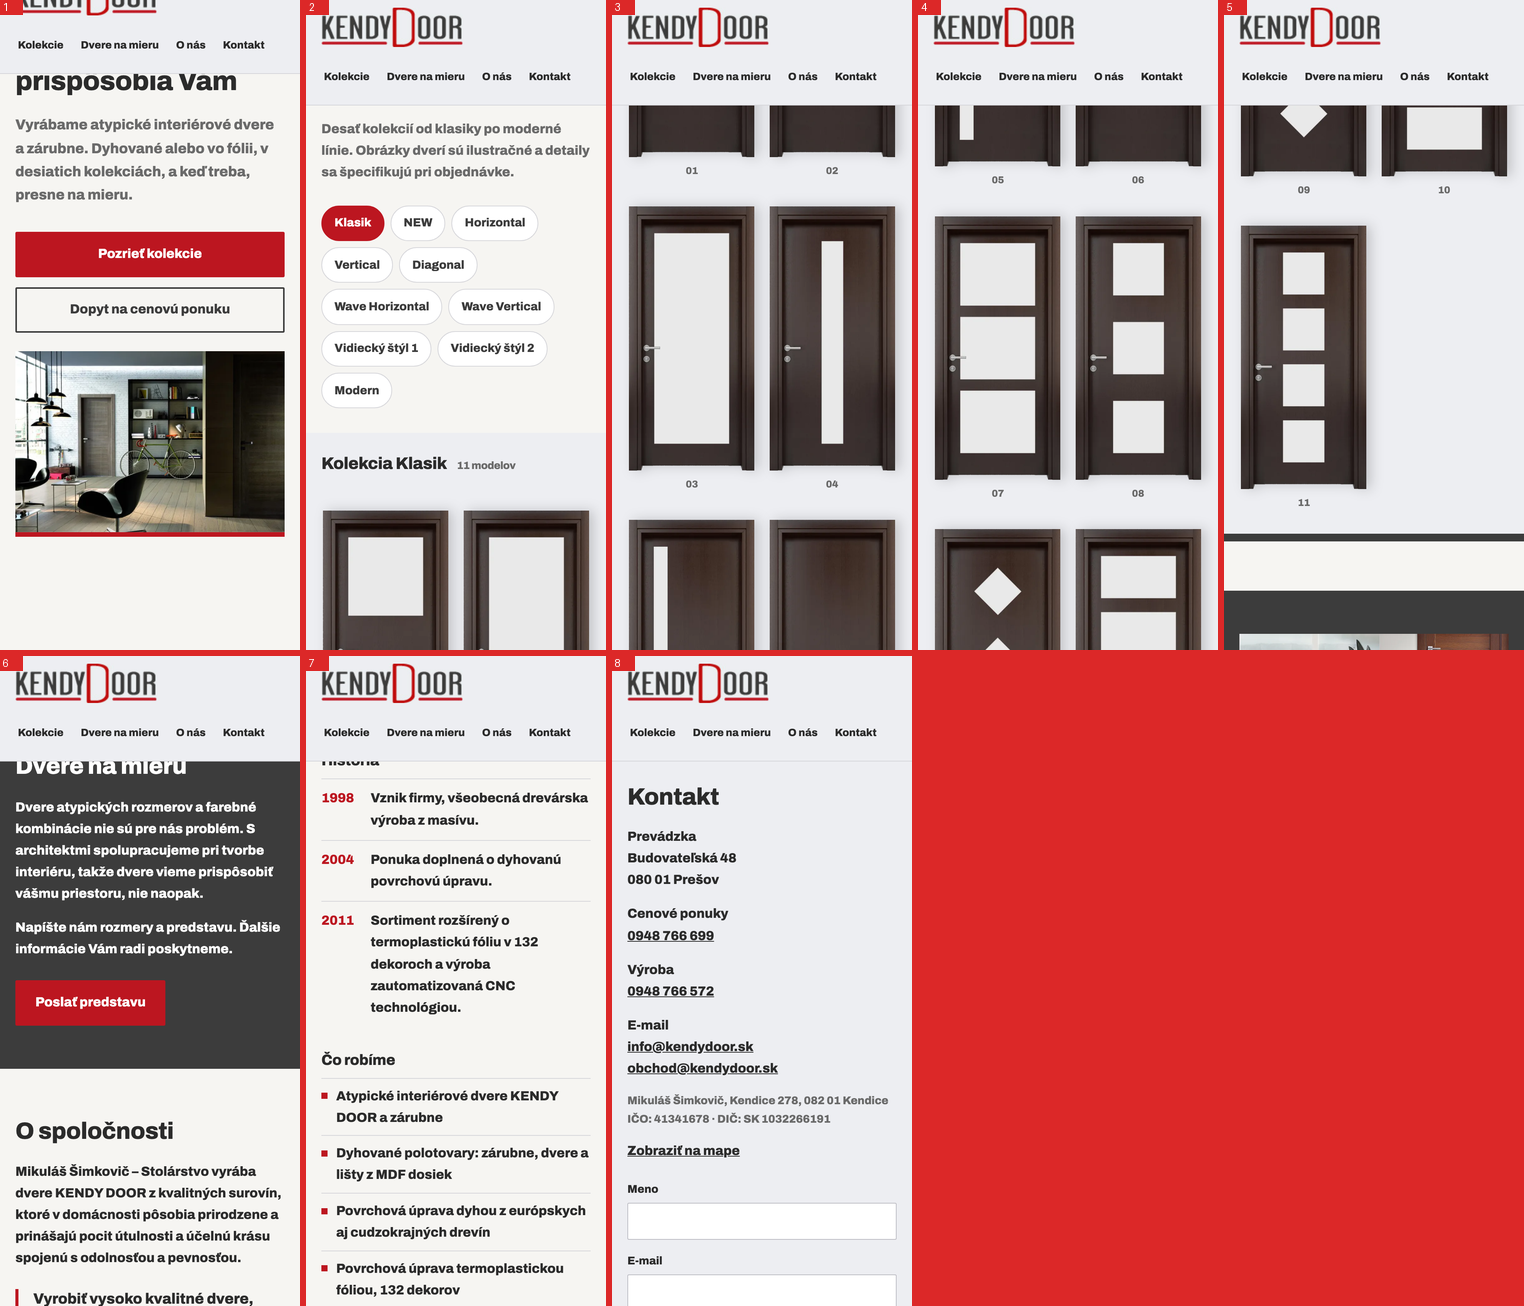
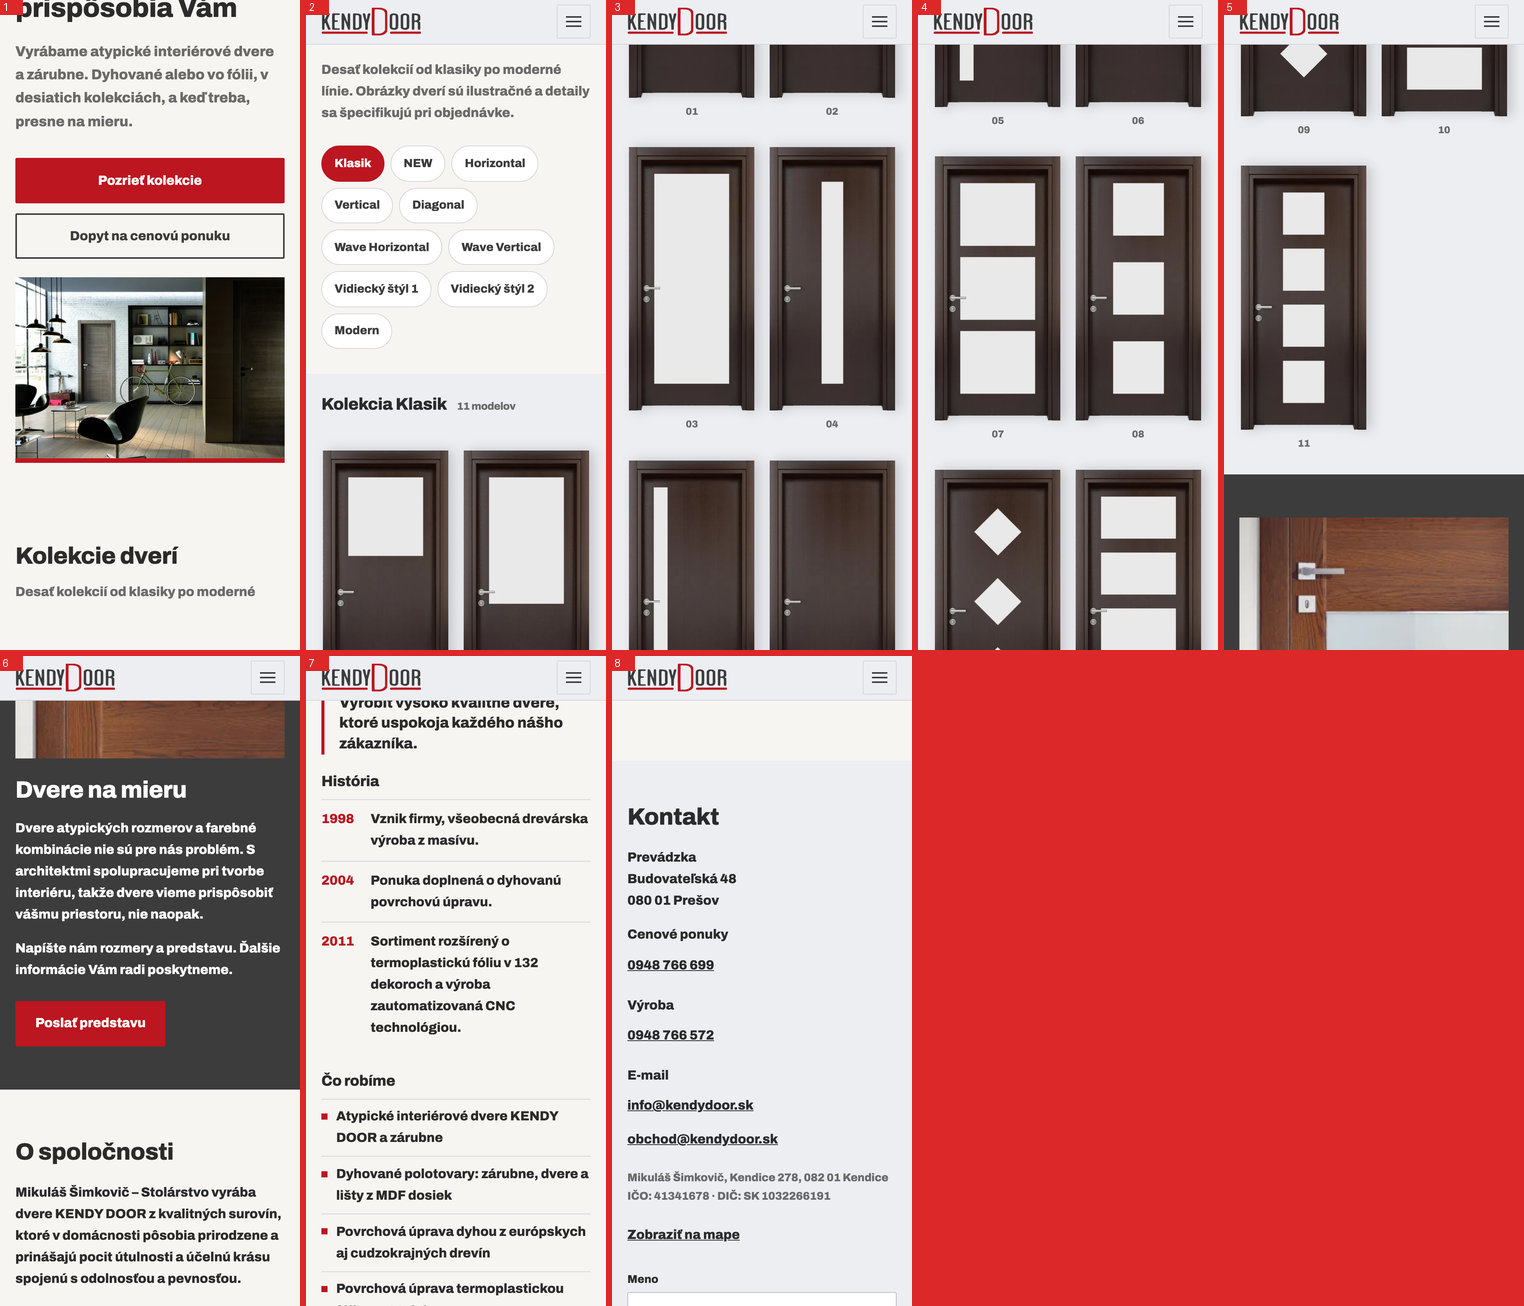
Aktualizace webu 2026-10-26 10:55

diff --git a/static/css/style.css b/static/css/style.css
@@ -104,11 +104,10 @@ blockquote { margin: 1.6rem 0 0; padding-left: 1.2rem; border-left: 4px solid va
 .kolekcia .rad li { width: auto; }
 .kolekcia { background: var(--stena); border-bottom: 0; padding-bottom: 1.2rem; }
 .kolekcia h3 { padding-top: 1.8rem; }
-.na-obraz img { width: 100%; height: 100%; min-height: 420px; object-fit: cover; object-position: center; }
 .na-mieru h2 { margin-bottom: 1.2rem; }
 .k-r { display: grid; }
 .k-r b { margin-bottom: .2rem; }
 .k-r a { display: flex; align-items: center; min-height: 44px; }
 @media (max-width: 40rem) { .hero-f img { aspect-ratio: 16/11; } }
 .paticka a { display: inline-flex; align-items: center; min-height: 44px; } .paticka p { margin: 0; }
-.na-obraz img { object-position: 88% center; } @media (max-width: 62rem) { .na-obraz img { min-height: 0; height: auto; aspect-ratio: 4/3; } }
+.na-obraz img { width: 100%; height: auto; min-height: 0; aspect-ratio: 2/1; object-fit: cover; object-position: 100% center; }
